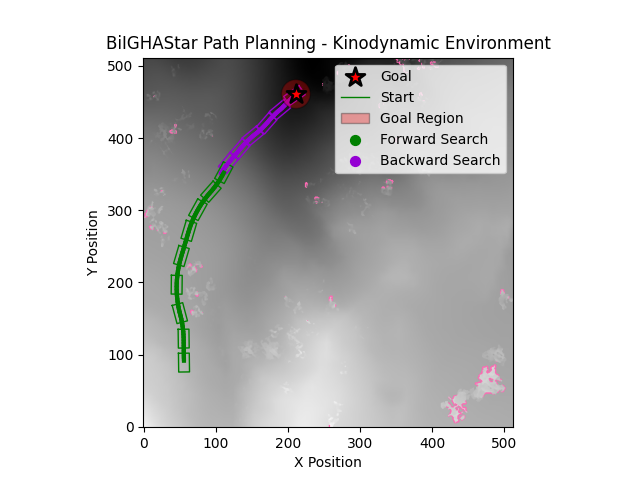
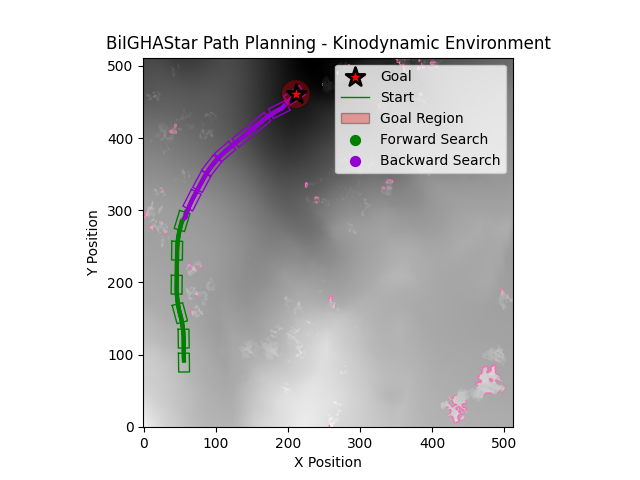
updated bidirectional version to also have preemptive expansions

Changed region(s): [[0.25, 0.2188, 0.4688, 0.5625]]

diff --git a/ighastar/src/ighastar.cpp b/ighastar/src/ighastar.cpp
@@ -492,14 +492,10 @@ public:
            !unexpanded_stash.empty()) {
       std::shared_ptr<Node> p = unexpanded_stash.front();
       unexpanded_stash.pop_front();
-      if (p == v) {
-        continue; // v is already handled above
-      }
-      if (p->preexpanded) {
-        continue; // already expanded (e.g. popped/expanded earlier)
-      }
-      if (p->f >= Omega) {
-        continue; // no longer promising; would be pruned anyway
+      // Skip: v (already handled above), already-expanded vertices, and
+      // vertices no longer promising (would be pruned anyway).
+      if (p == v || p->preexpanded || p->f >= Omega) {
+        continue;
       }
       preempt_nodes.push_back(p);
       batch.push_back(p);
@@ -1378,8 +1374,13 @@ public:
         if (debug) {
           log_stream << "generate successors" << std::endl;
         }
+        // When preemptive expansion is enabled, this also opportunistically
+        // expands stash vertices for this search direction in the same GPU
+        // launch (each direction has its own env/stream and stash).
         std::vector<std::shared_ptr<Node>> neighbors =
-            search->env->Succ(v, goal_node);
+            search->preemptive_enabled
+                ? search->expand_with_preemption(v, goal_node)
+                : search->env->Succ(v, goal_node);
         end_time = std::chrono::high_resolution_clock::now();
         successor_time +=
             std::chrono::duration<float, std::micro>(end_time - start_time)
@@ -1412,6 +1413,11 @@ public:
               neighbor->active = false;
               search->inactive_Q_v.insert(neighbor);
               search->inactive_Q_v_hash.insert(neighbor->hash);
+            }
+            if (search->preemptive_enabled) {
+              // Newly discovered vertex becomes eligible for preemptive
+              // expansion in a later iteration of this search direction.
+              search->unexpanded_stash.push_back(neighbor);
             }
             if (debug) {
               log_stream << "inserted node into Q_v and updated G" << std::endl;
@@ -1766,6 +1772,12 @@ public:
 
   float get_best_cost() { return shared_Omega.load(); }
 
+  // Total vertices expanded preemptively across both search directions.
+  long get_preemptive_expansions() {
+    return forward_search->preemptive_expansions +
+           backward_search->preemptive_expansions;
+  }
+
   // get the profiler info, similar to IGHAStar but aggregated from both
   // searches
   std::tuple<float, float, float, float, int, int, int, int, std::vector<int>,
@@ -1810,5 +1822,7 @@ PYBIND11_MODULE(TORCH_EXTENSION_NAME, m) {
       .def("get_best_path", &BiIGHAStar::get_best_path)
       .def("get_total_expansions", &BiIGHAStar::get_total_expansions)
       .def("get_best_cost", &BiIGHAStar::get_best_cost)
-      .def("get_profiler_info", &BiIGHAStar::get_profiler_info);
+      .def("get_profiler_info", &BiIGHAStar::get_profiler_info)
+      .def("get_preemptive_expansions",
+           &BiIGHAStar::get_preemptive_expansions);
 }